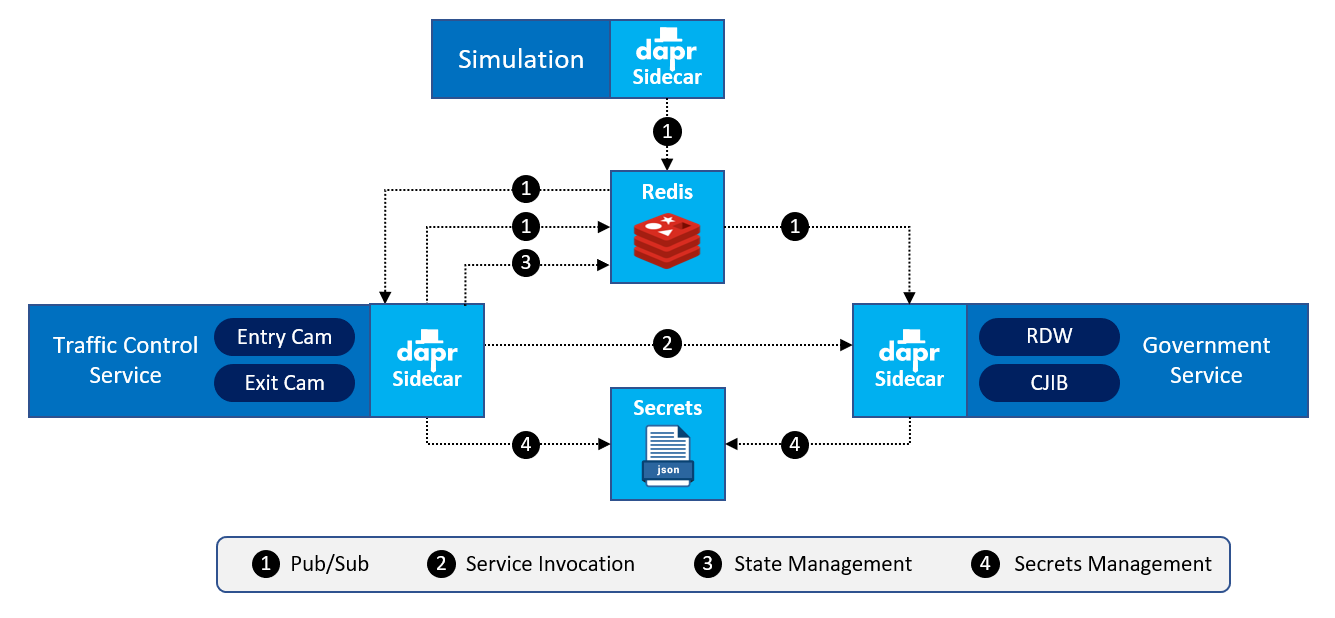
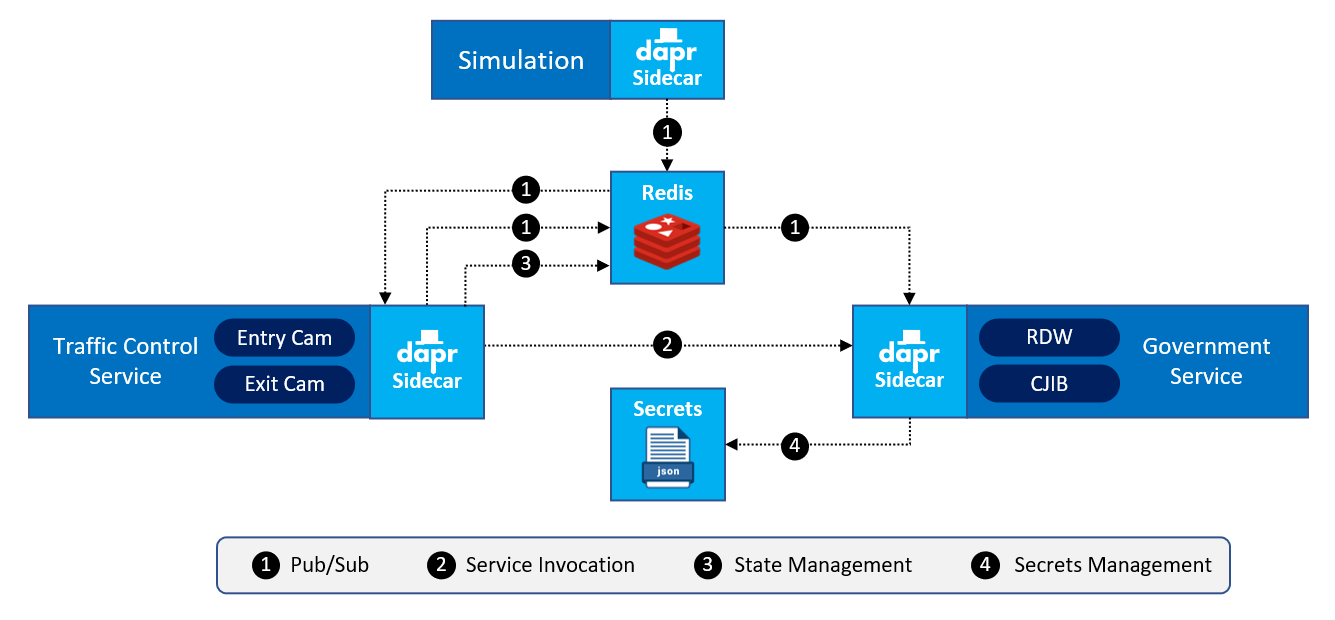
Removed API key from GovernmentService

diff --git a/src/GovernmentService/Repositories/InMemoryVehicleInfoRepository.cs b/src/GovernmentService/Repositories/InMemoryVehicleInfoRepository.cs
@@ -7,9 +7,11 @@ namespace GovernmentService.Repositories
 {
     public class InMemoryVehicleInfoRepository : IVehicleInfoRepository
     {
-        private Random _rnd = new Random();
-
-        private string[] _vehicleBrands = new string[] { "Mercedes", "Toyota", "Audi", "Volkswagen", "Seat", "Renault", "Skoda", "Kia" };
+        private readonly string _connectionString;
+        private readonly Random _rnd = new Random();
+        private readonly string[] _vehicleBrands = new string[] {
+            "Mercedes", "Toyota", "Audi", "Volkswagen", "Seat", "Renault", "Skoda", 
+            "Kia", "Citroën", "Suzuki", "Mitsubishi", "Fiat", "Opel" };
 
         private Dictionary<string, string[]> _models = new Dictionary<string, string[]>
         {
@@ -21,7 +23,19 @@ namespace GovernmentService.Repositories
             { "Renault", new string[] { "Megane", "Clio", "Twingo", "Scenic", "Captur" } },
             { "Skoda", new string[] { "Octavia", "Fabia", "Superb", "Karoq", "Kodiaq" } },
             { "Kia", new string[] { "Picanto", "Rio", "Ceed", "XCeed", "Niro", "Sportage" } },
+            { "Citroën", new string[] { "C1", "C2", "C3", "C4", "C4 Cactus", "Berlingo" } },
+            { "Suzuki", new string[] { "Ignis", "Swift", "Vitara", "S-Cross", "Swace", "Jimny" } },
+            { "Mitsubishi", new string[] { "Space Star", "ASX", "Eclipse Cross", "Outlander PHEV" } },
+            { "Ford", new string[] { "Focus", "Ka", "C-Max", "Fusion", "Fiesta", "Mondeo", "Kuga" } },
+            { "BMW", new string[] { "1 Serie", "2 Serie", "3 Serie", "5 Serie", "7 Serie", "X5" } },
+            { "Fiat", new string[] { "500", "Panda", "Punto", "Tipo", "Multipla" } },
+            { "Opel", new string[] { "Karl", "Corsa", "Astra", "Crossland X", "Insignia" } }
         };
+
+        public InMemoryVehicleInfoRepository(string connectionString)
+        {
+            _connectionString = connectionString; // not used in the in-memory implementation
+        }
 
         public VehicleInfo GetVehicleInfo(string licenseNumber)
         {

diff --git a/src/GovernmentService/Controllers/RDWController.cs b/src/GovernmentService/Controllers/RDWController.cs
@@ -13,8 +13,7 @@ namespace GovernmentService.Controllers
     {
         private readonly ILogger<RDWController> _logger;
         private readonly IVehicleInfoRepository _vehicleInfoRepository;
-        private string _expectedAPIKey;
-        private Random _rnd;
+        private readonly Random _rnd;
 
         public RDWController(ILogger<RDWController> logger,
             IVehicleInfoRepository vehicleInfoRepository, DaprClient daprClient)
@@ -22,25 +21,11 @@ namespace GovernmentService.Controllers
             _logger = logger;
             _vehicleInfoRepository = vehicleInfoRepository;
             _rnd = new Random();
-
-            // specify secret-store to use based on hosting environment
-            string runningInK8s = (Environment.GetEnvironmentVariable("DOTNET_RUNNING_IN_CONTAINER") ?? "false").ToLowerInvariant();
-            string secretStoreName = runningInK8s == "true" ? "kubernetes" : "secret-store-file";
-
-            // get API key
-            var apiKeySecret = daprClient.GetSecretAsync(secretStoreName, "rdw-api-key",
-                new Dictionary<string,string>{ { "namespace", "dapr-trafficcontrol" } }).Result;
-            _expectedAPIKey = apiKeySecret["rdw-api-key"];
         }
 
-        [HttpGet("rdw/{apikey}/vehicle/{licenseNumber}")]
-        public ActionResult<VehicleInfo> GetVehicleDetails(string apiKey, string licenseNumber)
+        [HttpGet("rdw/vehicle/{licenseNumber}")]
+        public ActionResult<VehicleInfo> GetVehicleDetails(string licenseNumber)
         {
-            if (apiKey != _expectedAPIKey)
-            {
-                return Unauthorized();
-            }
-
             _logger.LogInformation($"RDW: Retrieving vehicle-info for licensenumber {licenseNumber}");
             VehicleInfo info = _vehicleInfoRepository.GetVehicleInfo(licenseNumber);
             return info;

diff --git a/src/GovernmentService/Startup.cs b/src/GovernmentService/Startup.cs
@@ -1,4 +1,6 @@
-using System.Text.Json;
+using System;
+using System.Collections.Generic;
+using Dapr.Client;
 using GovernmentService.Helpers;
 using GovernmentService.Repositories;
 using Microsoft.AspNetCore.Builder;
@@ -21,7 +23,7 @@ namespace GovernmentService
         // This method gets called by the runtime. Use this method to add services to the container.
         public void ConfigureServices(IServiceCollection services)
         {
-            services.AddScoped<IVehicleInfoRepository, InMemoryVehicleInfoRepository>();
+            RegisterVehicleInfoRepository(services);
 
             services.AddSingleton<IFineCalculator, HardCodedFineCalculator>();
 
@@ -48,5 +50,22 @@ namespace GovernmentService
                 endpoints.MapControllers();
             });
         }
+        private void RegisterVehicleInfoRepository(IServiceCollection services)
+        {
+            // specify secret-store to use based on hosting environment
+            string runningInK8s =
+                (Environment.GetEnvironmentVariable("DOTNET_RUNNING_IN_CONTAINER") ?? "false").ToLowerInvariant();
+            string secretStoreName = runningInK8s == "true" ? "kubernetes" : "secret-store-file";
+
+            // get connection string
+            var daprClient = new DaprClientBuilder().Build();
+            var apiKeySecret = daprClient.GetSecretAsync(secretStoreName, "db-connectionstring",
+                new Dictionary<string, string> { { "namespace", "dapr-trafficcontrol" } }).Result;
+            string connectionstring = apiKeySecret["db-connectionstring"];
+
+            // register repository
+            services.AddScoped<IVehicleInfoRepository, InMemoryVehicleInfoRepository>(
+                _ => new InMemoryVehicleInfoRepository(connectionstring));
+        }        
     }
 }

diff --git a/src/TrafficControlService/Controllers/TrafficController.cs b/src/TrafficControlService/Controllers/TrafficController.cs
@@ -20,30 +20,21 @@ namespace TrafficControlService.Controllers
         private readonly ILogger<TrafficController> _logger;
         private readonly ISpeedingViolationCalculator _speedingViolationCalculator;
         private readonly string _roadId;
-        private readonly string _secretStoreName;
 
         public TrafficController(ILogger<TrafficController> logger, ISpeedingViolationCalculator speedingViolationCalculator)
         {
             _logger = logger;
             _speedingViolationCalculator = speedingViolationCalculator;
             _roadId = speedingViolationCalculator.GetRoadId();
-
-            // specify secret-store to use based on hosting environment
-            string runningInK8s = (Environment.GetEnvironmentVariable("DOTNET_RUNNING_IN_CONTAINER") ?? "false").ToLowerInvariant();
-            _secretStoreName = runningInK8s == "true" ? "kubernetes" : "secret-store-file";
         }
 
         [Topic("pubsub", "trafficcontrol.entrycam")]
         [HttpPost("entrycam")]
         public async Task<ActionResult> VehicleEntry(VehicleRegistered msg, [FromServices] DaprClient daprClient)
         {
-            // get vehicle details
-            var apiKeySecret = await daprClient.GetSecretAsync(_secretStoreName, "rdw-api-key",
-                new Dictionary<string,string>{ { "namespace", "dapr-trafficcontrol" } });
-            var apiKey = apiKeySecret["rdw-api-key"];
             var vehicleInfo = await daprClient.InvokeMethodAsync<VehicleInfo>(
                 "governmentservice",
-                $"rdw/{apiKey}/vehicle/{msg.LicenseNumber}",
+                $"rdw/vehicle/{msg.LicenseNumber}",
                 new HttpInvocationOptions { Method = HttpMethod.Get });
 
             // log entry

diff --git a/README.md b/README.md
@@ -46,11 +46,14 @@ The way the simulation works is depicted in the sequence diagram below:
 All actions described in this sequence are logged to the console during execution so you can follow the flow.
 
 ## Dapr
-This sample uses Dapr for implementing several aspects of the application. For communicating messages, the **publish and subscribe** building-block is used. For doing request/response type communication with a service, the  **service-to-service invocation** building-block is used. And for storing the state of a vehicle, the **state management** building-block is used. The RDW controller in the GovernmentService has an operation `GetVehicleInfo` that must be called with an API key in the URI. The TrafficControlService uses the **secrets management** building block to get the API key. The GovernmentService also gets the API key from the secrets management building block in order to check the key.
-
-In the diagram below you see a schematic overview of the setup:
+This sample uses Dapr for implementing several aspects of the application. In the diagram below you see a schematic overview of the setup:
 
 ![](img/dapr-setup.png)
+
+1. For communicating messages, the **publish and subscribe** building-block is used. 
+1. For doing request/response type communication with a service, the  **service-to-service invocation** building-block is used. 
+1. For storing the state of a vehicle, the **state management** building-block is used. 
+1. The RDW controller in the GovernmentService has an operation `GetVehicleInfo` that uses a `VehicleInfoRepository` to retrieve vehicle data. The constructor of this repository expects a connection-string as argument. This connection-string is stored in a secrets file. The GovernmentService uses the **secrets management** building block with the local file component to get the connection-string.
 
 In this sample, the Reddis component is used for both state management as well as for pub/sub.
 
